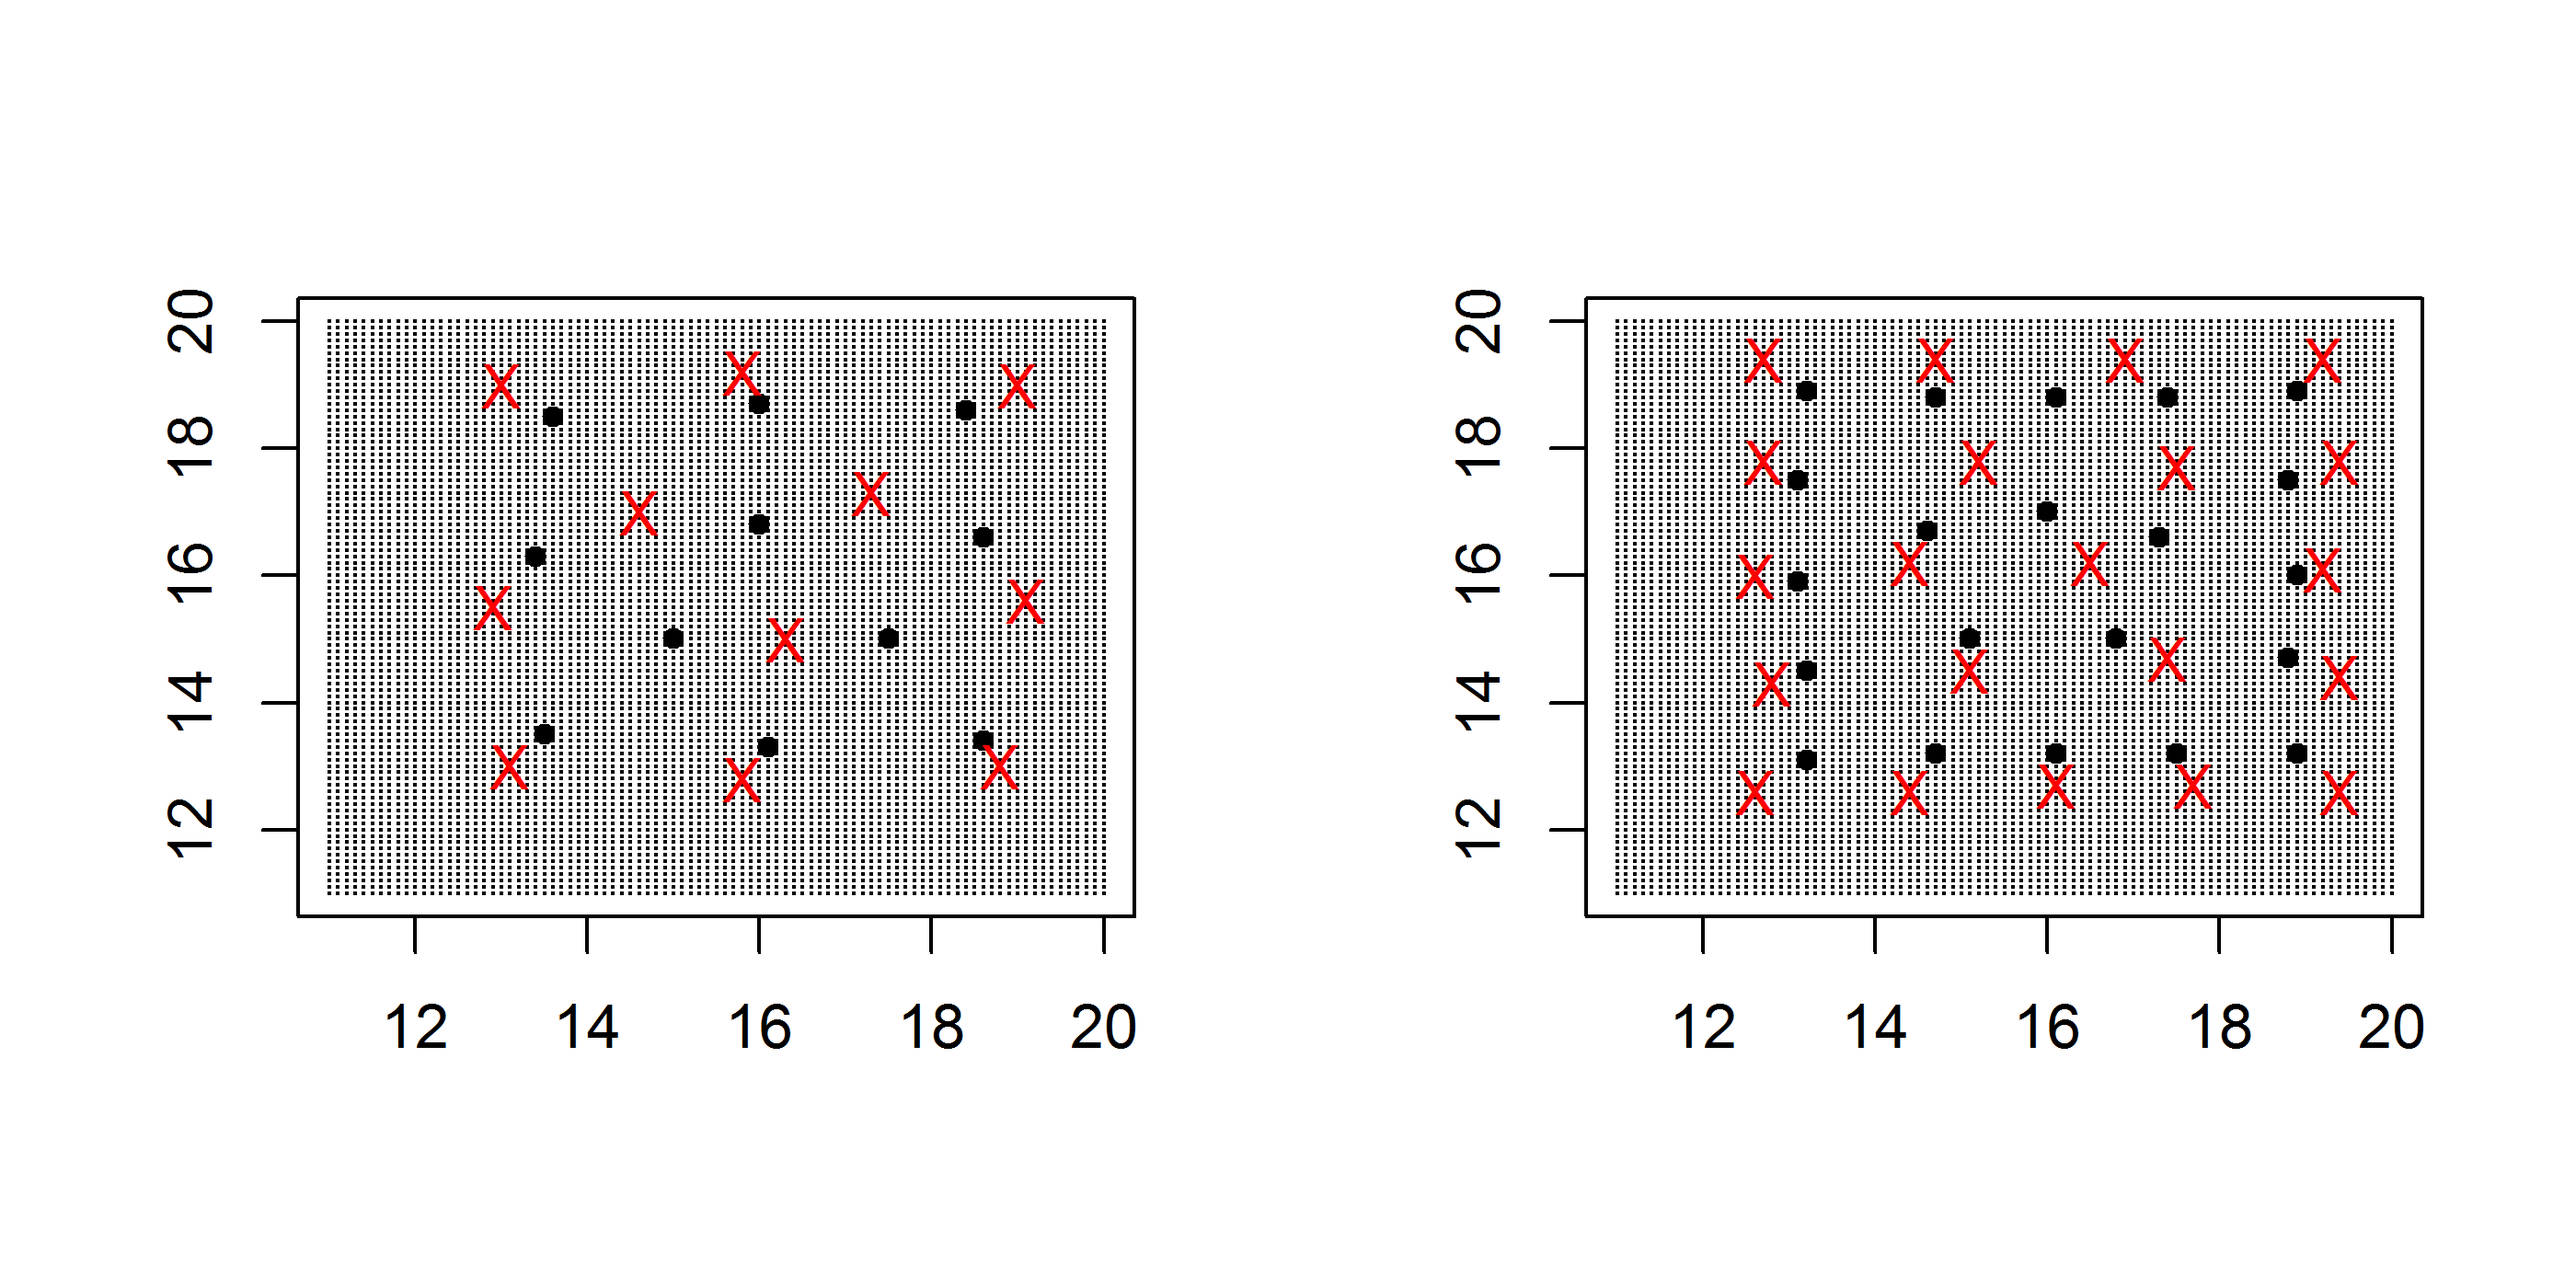
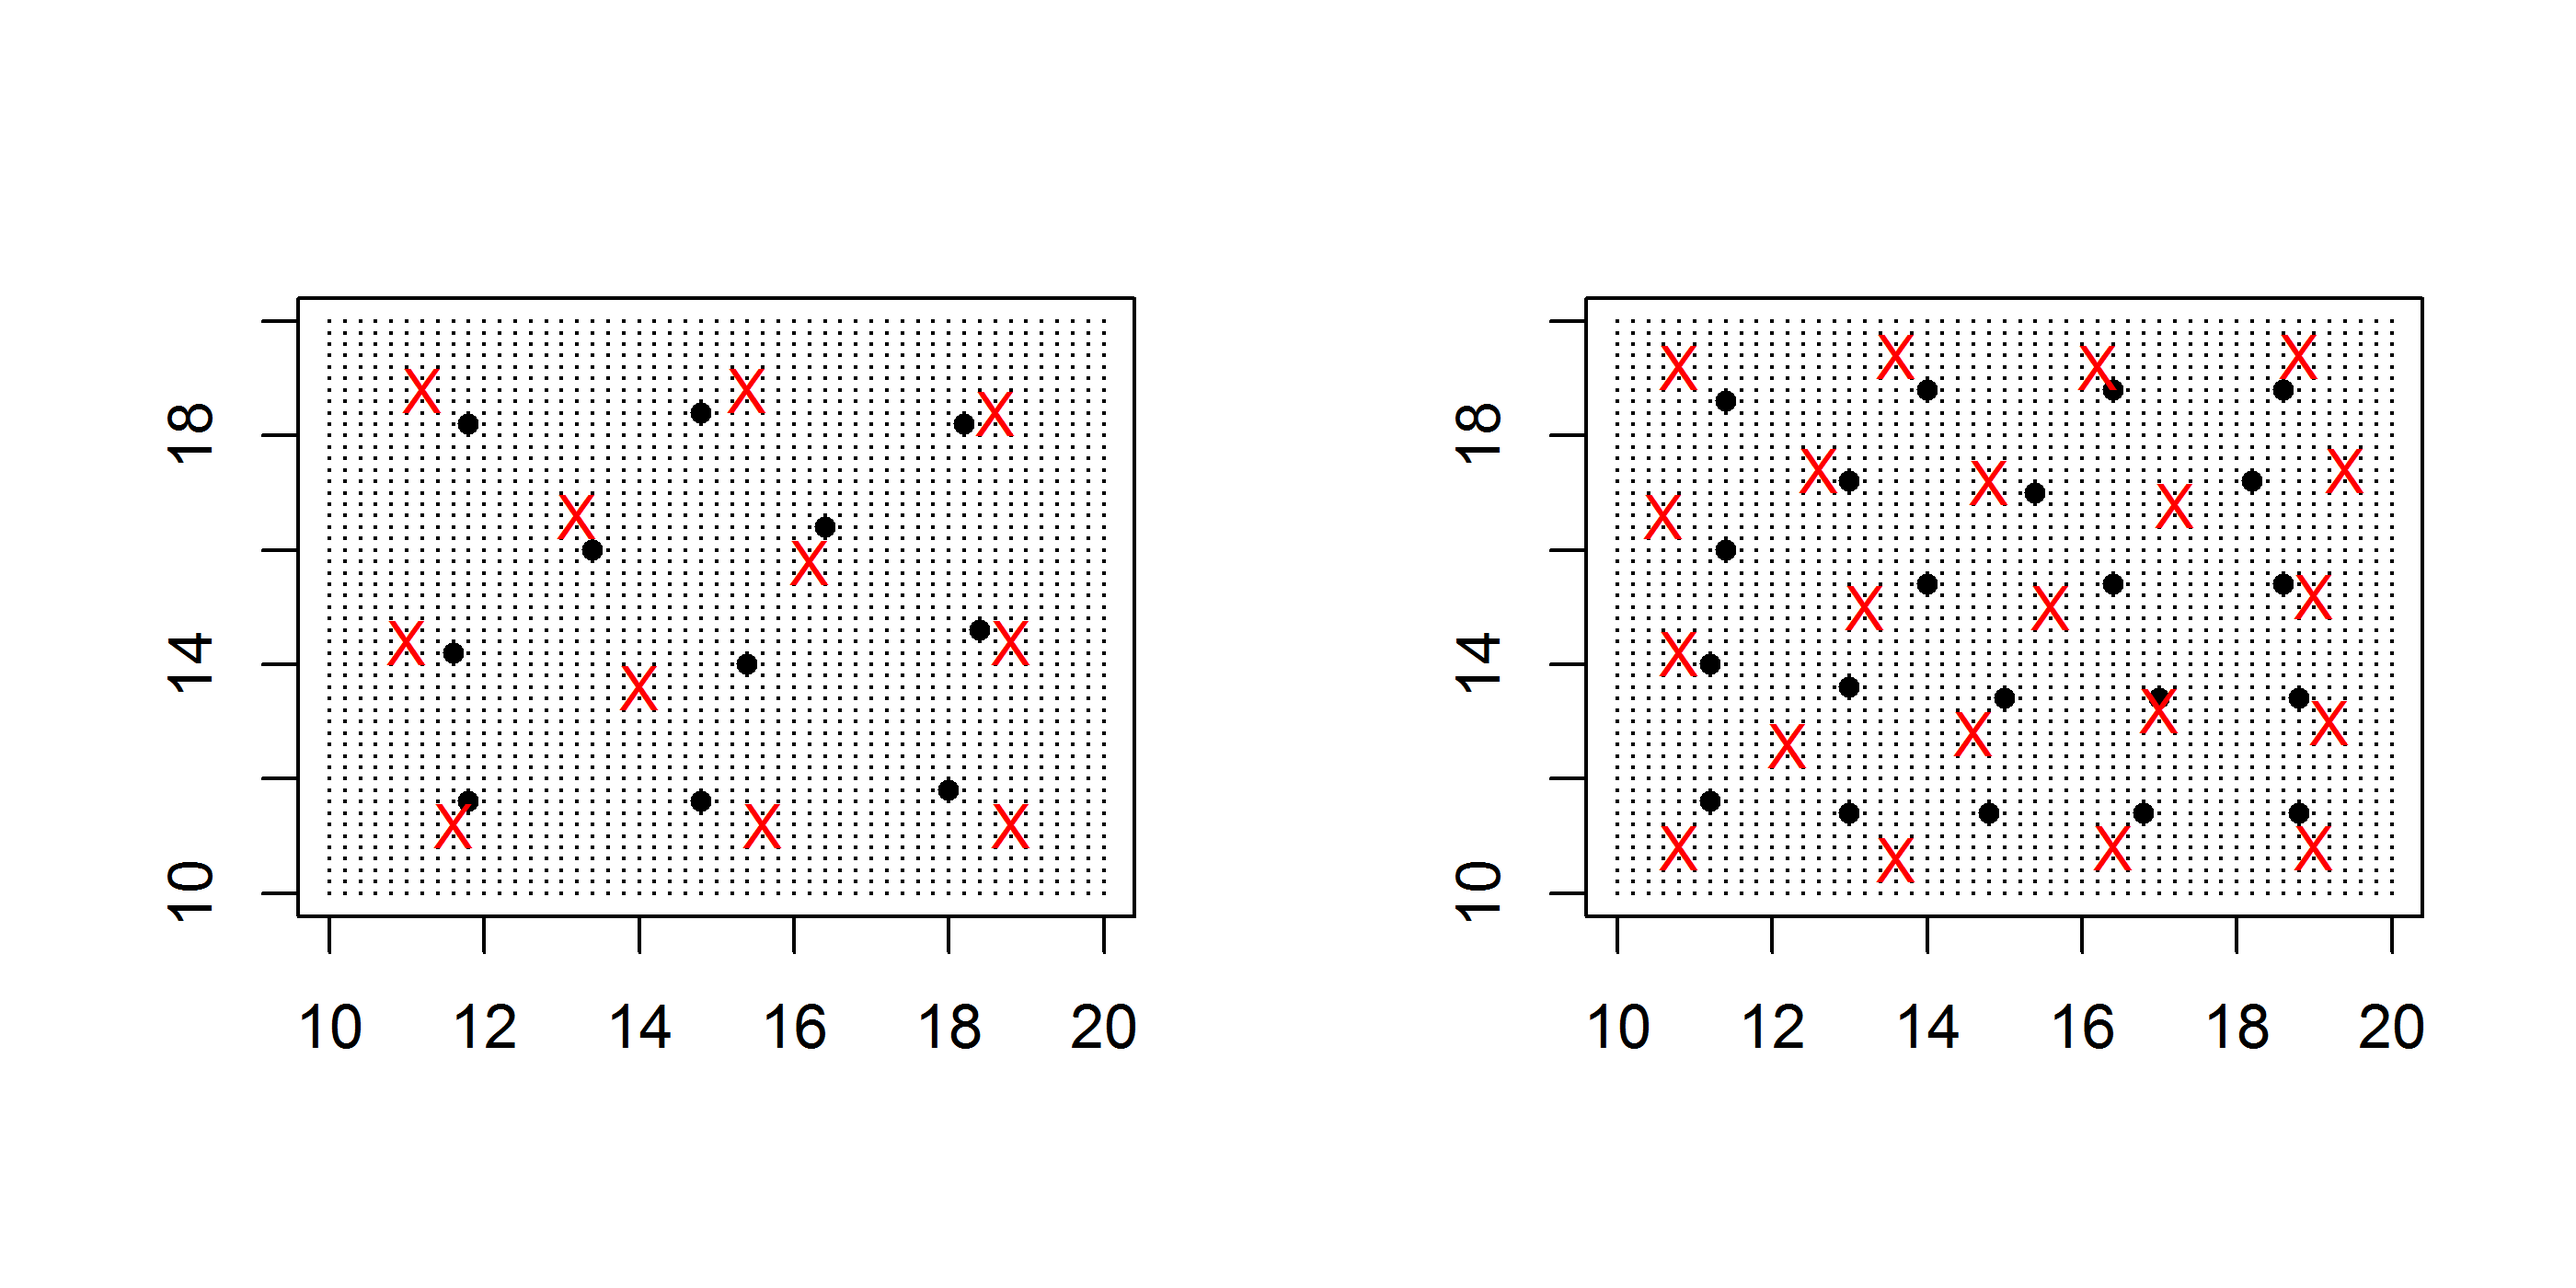
design

diff --git a/Ch10-Design/Chapt-Design.tex b/Ch10-Design/Chapt-Design.tex
@@ -1162,8 +1162,9 @@ locations of ${\bf s}$ is:
 \label{design.eq.pbar}
 \end{equation}
 It is important to note that this can be calculated directly {\it
-  given} the design ${\bf X}$, and parameters of the model. This is handy because we see that it is
-used in the variance formulae given subsequently.
+  given} the design ${\bf X}$, and parameters of the model. This is
+handy because we see that it is used in the variance formulae given
+subsequently.
 
 The approach we take here is we develop the variance of $\tilde{N}$
 conditional on knowing the locations of all $N$ individuals and then
@@ -1175,7 +1176,7 @@ model for ${\bf s}$. The variance criterion we propose here is based
 on a delta approximation to $\mbox{Var}(n/\bar{p})$:
 \begin{equation}
  \mbox{Var}(\tilde{N}(\bm \alpha) ) =
-\frac{N^{2} Var(\bar{p})}{\bar{p}^{2}}  + N\frac{(1-\bar{p})}{\bar{p}}
+\frac{n^{2}}{\bar{p}^{2}} \mbox{Var}(\bar{p}) + \frac{1}{\bar{p}^{2}} \mbox{Var}(n)
 \label{design.eq.theQ}
 \end{equation}
 This is a really intuitive-looking criterion upon which to base
@@ -1194,10 +1195,21 @@ $\bar{p}$ goes to 0).  We suggest, therefore, that designs for
 capture-recapture studies should seek to minimize
 Eq. \ref{design.eq.theQ}, or perhaps generalizations of this to
 account for other features of the model.
+For operational purposes we replace $n^{2}$ with its expected value
+and substitute $\mbox{Var}(n) = N\bar{p}(1-\bar{p})$, do some
+rearranging and this produces the following:
+\begin{equation}
+ \mbox{Var}(\tilde{N}(\bm \alpha) ) =
+N^{2} \mbox{Var}(\bar{p}) +  \frac{N(1-\bar{p})}{\bar{p}}( \mbox{Var}(\bar{p}) + 1)
+\label{design.eq.theQ2}.
+\end{equation}
+To make use of this expression in a particular design problem, we need
+to decide on values of $N$, and the model parameters for computing
+$\bar{p}$, and then think about optimizing the criterion over all
+possible
+designs (see below).
 
-
-
-In order to work with this expersssion we will
+However, in order to work directly with this expersssion we will
 have to do some analysis of $\mbox{Var}(\bar{p})$ which we take up now.
 We note that $\bar{p}$ is itself a deterministic function of the
 parameters that we need to estimate, ${\bm \alpha}$. Therefore, as a
@@ -1418,25 +1430,18 @@ $\sigma = 3$ (row 2, left panel) the best design was produced in about
 
 For the 11 point designs we have this:
 \begin{verbatim} 
-var(alpha hat)
 > dbar(a1.1$Xlst[[1]])
-[1] 2.00696
-var(N hat)
+[1] 2.594404
 > dbar(a2.1$Xlst[[1]])
-[1] 2.403451
-max pbar
+[1] 3.046507
 > dbar(a3.1$Xlst[[1]])
 [1] 2.426027
-
-for the 21 point designs:
-
-var(alpha hat)
+> 
+For the 21 points
 > dbar(a1.2$Xlst[[1]])
-[1] 1.407328
-var(N hat)
+[1] 1.887274
 > dbar(a2.2$Xlst[[1]])
-[1] 1.698737
-var(pbar)
+[1] 2.264023
 > dbar(a3.2$Xlst[[1]])
 [1] 1.698779
 \end{verbatim}
